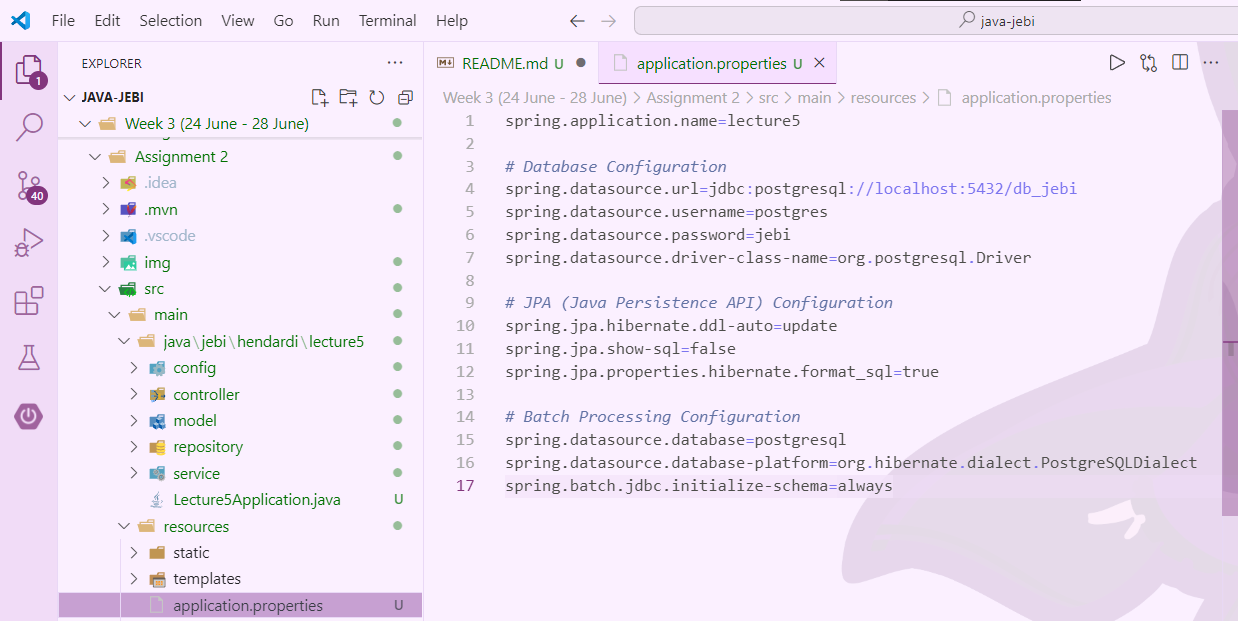
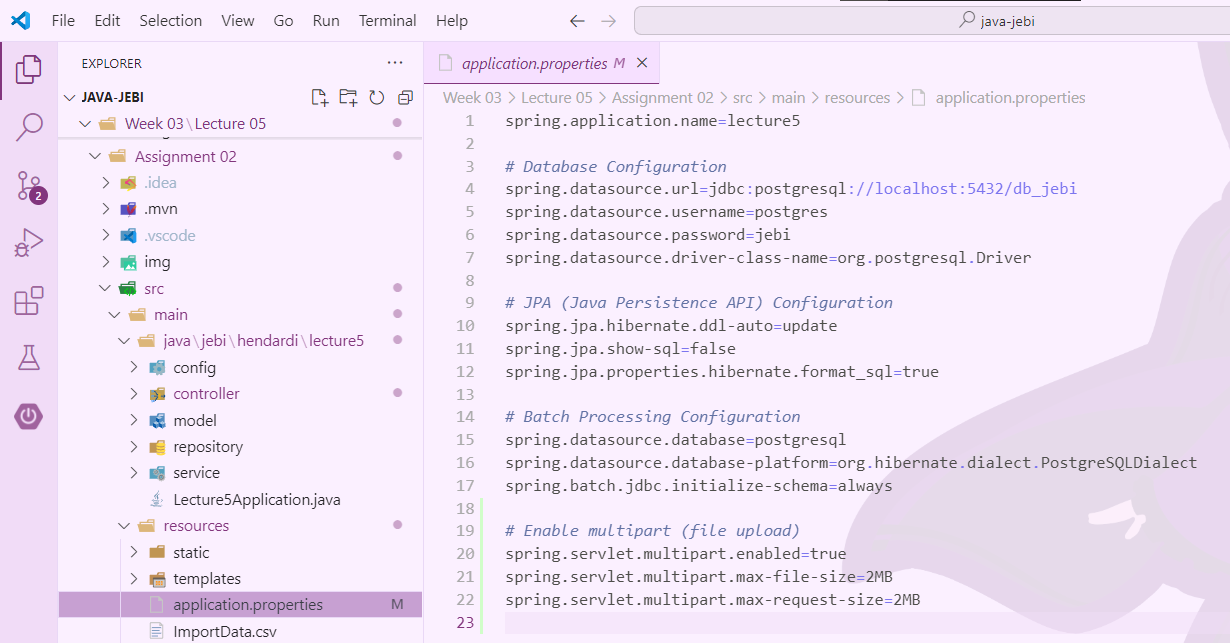
add api for upload file

diff --git a/Week 03/Lecture 05/Assignment 02/src/main/java/jebi/hendardi/lecture5/controller/EmployeeController.java b/Week 03/Lecture 05/Assignment 02/src/main/java/jebi/hendardi/lecture5/controller/EmployeeController.java
@@ -1,6 +1,9 @@
 package jebi.hendardi.lecture5.controller;
 
+import java.io.BufferedReader;
+import java.io.InputStreamReader;
 import java.util.List;
+import java.util.stream.Collectors;
 
 import org.springframework.batch.core.Job;
 import org.springframework.batch.core.JobParameters;
@@ -15,7 +18,9 @@ import org.springframework.web.bind.annotation.PostMapping;
 import org.springframework.web.bind.annotation.PutMapping;
 import org.springframework.web.bind.annotation.RequestBody;
 import org.springframework.web.bind.annotation.RequestMapping;
+import org.springframework.web.bind.annotation.RequestParam;
 import org.springframework.web.bind.annotation.RestController;
+import org.springframework.web.multipart.MultipartFile;
 
 import jebi.hendardi.lecture5.model.Employee;
 import jebi.hendardi.lecture5.service.EmployeeService;
@@ -85,5 +90,28 @@ public class EmployeeController {
         } catch (Exception e) {
             return new ResponseEntity<>("CSV Import failed: " + e.getMessage(), HttpStatus.INTERNAL_SERVER_ERROR);
         }
+    }
+
+    @PostMapping("/upload")
+    public ResponseEntity<String> uploadCsvFile(@RequestParam("file") MultipartFile file) {
+        if (file.isEmpty()) {
+            return new ResponseEntity<>("File is empty", HttpStatus.BAD_REQUEST);
+        }
+
+        try (BufferedReader reader = new BufferedReader(new InputStreamReader(file.getInputStream()))) {
+            List<Employee> employees = reader.lines()
+                    .skip(1)
+                    .map(this::mapToEmployee)
+                    .collect(Collectors.toList());
+            employees.forEach(employeeService::addEmployee);
+            return new ResponseEntity<>("File uploaded and data saved successfully", HttpStatus.OK);
+        } catch (Exception e) {
+            return new ResponseEntity<>("Failed to process file: " + e.getMessage(), HttpStatus.INTERNAL_SERVER_ERROR);
+        }
+    }
+
+    private Employee mapToEmployee(String line) {
+        String[] fields = line.split(",");
+        return new Employee(fields[0], fields[1], fields[2], fields[3], fields[4]);
     }
 }

diff --git a/Week 03/Lecture 05/Assignment 02/README.md b/Week 03/Lecture 05/Assignment 02/README.md
@@ -32,7 +32,6 @@ Visit https://start.spring.io/ and create a new Spring project by selecting the 
 
 #
 ## 2. Create Configuration
-
 ![alt text](img/image-1.png)
 
 **Database Configuration**:
@@ -53,6 +52,12 @@ Visit https://start.spring.io/ and create a new Spring project by selecting the 
 
 - `spring.batch.jdbc.initialize-schema=always`: Tells Spring Batch to initialize its database schema (BATCH_ tables) always when the application starts up. This is useful for ensuring that the necessary batch processing tables are created or updated as needed.
 
+
+**Multipart File Upload Configuration:**
+
+- `spring.servlet.multipart.enabled=true`: Enables multipart (file upload) support in the Spring Boot application.
+- `spring.servlet.multipart.max-file-size=2MB`: Sets the maximum size for a single uploaded file to 2MB. If a file larger than this is uploaded, the server will reject it.
+- `spring.servlet.multipart.max-request-size=2MB`: Sets the maximum size for the entire multipart request to 2MB. This includes all files and form data in the request. If the combined size exceeds this limit, the server will reject the request.
 #
 ## 3. Create Model
 
@@ -243,6 +248,7 @@ The EmployeeController class acts as the REST controller for managing Employee r
 | PUT         | `/employee/update/{employeeID}`   | Updates an employee identified by `employeeID` with new details using `employeeService.updateEmployee(updatedEmployee)`. |
 | DELETE      | `/employee/delete/{employeeID}`   | Deletes an employee from the database by `employeeID` using `employeeService.deleteEmployee(employeeID)`. |
 | POST        | `/employee/import`                | Initiates a batch job (`importEmployee`) to import data from a CSV file (`ImportData.csv`) into the database using `jobLauncher.run(job, jobParameters)`. |
+| POST      | `/employee/upload`   | Uploads a CSV file and processes it to store the data into the database using `employeeService.addEmployee(employee)`. The file must be a valid CSV with the expected format. |
 
 
 **Annotations:**
@@ -301,10 +307,45 @@ After the HTTP `POST` request to `/employee/import` is successful, the data from
 
 
 #
+### Upload and store CSV File to database
+
+- **HTTP Method**: POST
+- **Endpoint**: /employee/upload
+- **Description**: This endpoint allows users to upload a CSV file containing employee data. The file is processed to extract employee information, which is then stored in the database.
+- **Request Parameter**: file (MultipartFile) - The CSV file to be uploaded.
+
+**Request Handling**:
+
+- `public ResponseEntity<String> uploadCsvFile(@RequestParam("file") MultipartFile file)`: This method handles the file upload request. It accepts a MultipartFile parameter named file.
+
+**File Validation**:
+
+- `if (file.isEmpty())`: Checks if the uploaded file is empty.
+- `return new ResponseEntity<>("File is empty", HttpStatus.BAD_REQUEST)`;: If the file is empty, it returns a 400 Bad Request response with a message.
+
+**File Processing:**
+
+- `try (BufferedReader reader = new BufferedReader(new InputStreamReader(file.getInputStream())))`: Reads the file content using a BufferedReader.
+- r`eader.lines().skip(1).map(this::mapToEmployee).collect(Collectors.toList());`: Reads the file line by line, skips the first line (header), maps each line to an Employee object, and collects the results into a List<Employee>.
+
+**Data Saving:**
+- `employees.forEach(employeeService::addEmployee)`;: Iterates over the list of Employee objects and saves each one to the database using *employeeService.addEmployee*.
+
+
+
+**If File is empty**
+![alt text](img/2.11.png)
+
+**Upload success**
+![alt text](img/2.12.png)
+
+![alt text](img/2.13.png)
+#
 ### Retrieve All Employees
 Retrieve all employees from the database using a HTTP `GET` request to `/employee/all`.
 
 ![alt text](img/2.4.png)
+
 
 
 #
@@ -348,3 +389,5 @@ Send a `GET` request to `/employee/{department}` where {department} is replaced 
 ![alt text](img/2.9.png)
 
 ![alt text](img/2.10.png)
+
+
